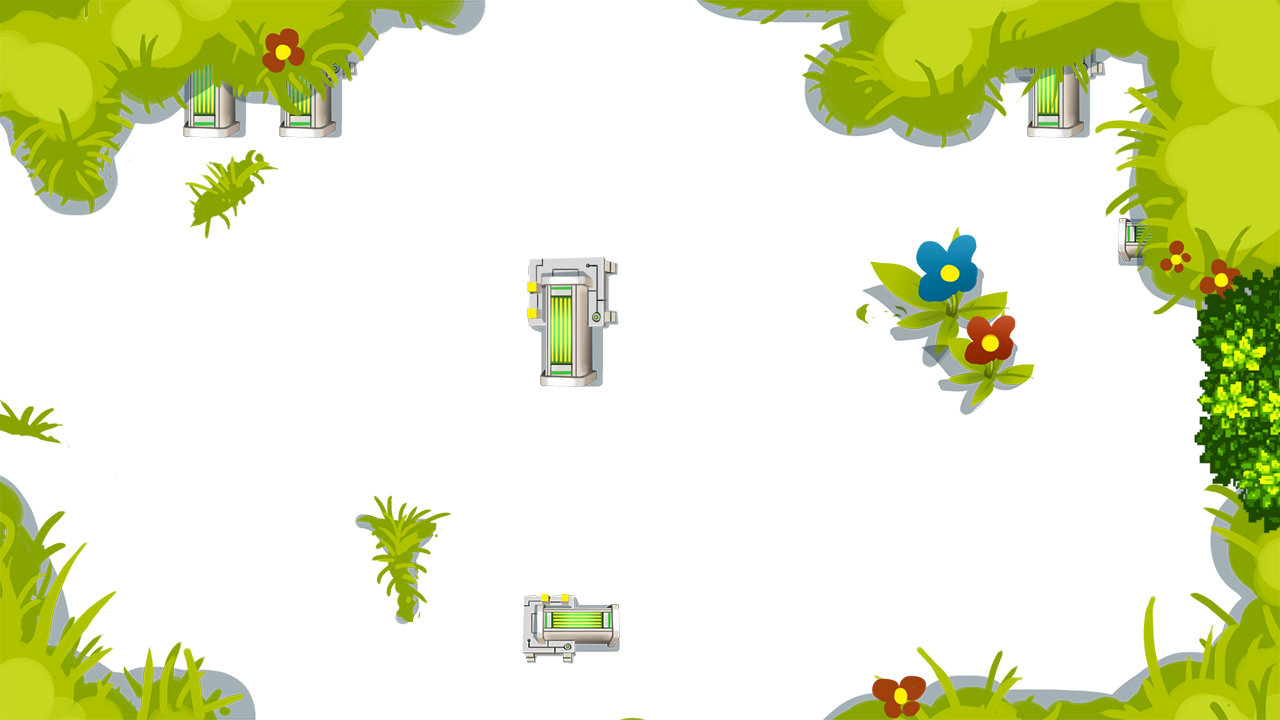
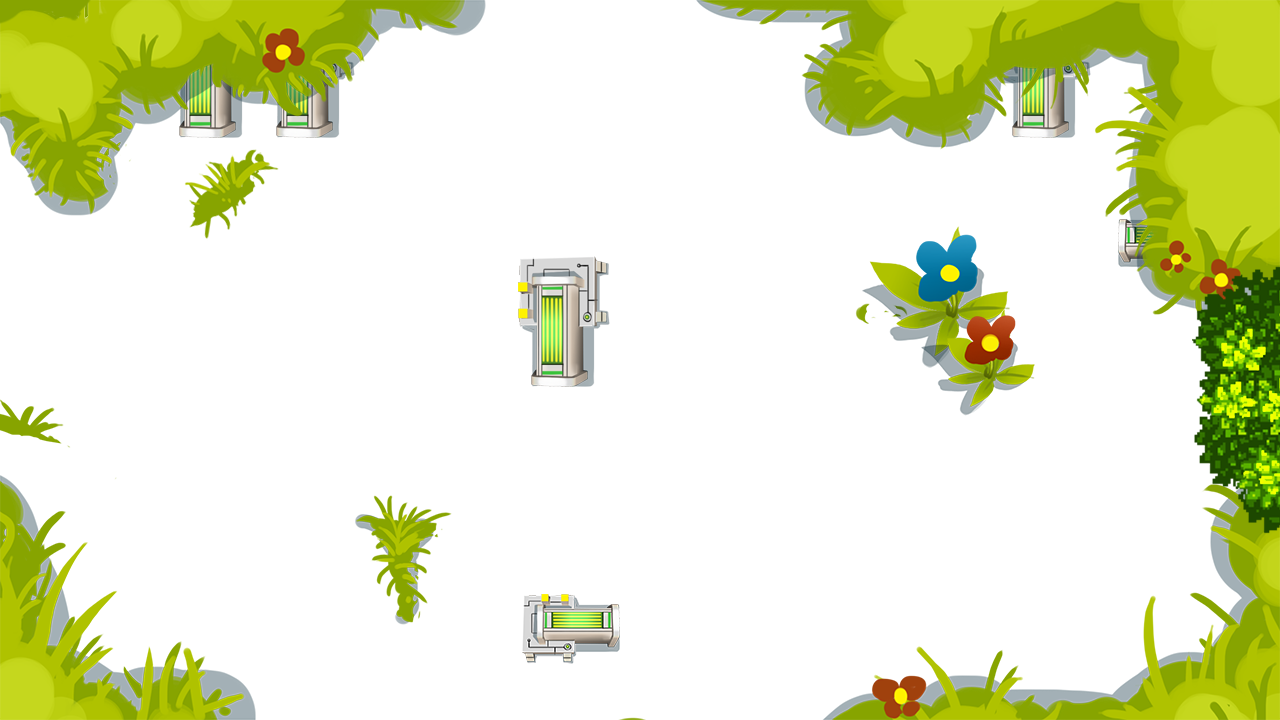
update foregrounds remove waggon offset

diff --git a/js/train.js b/js/train.js
@@ -1,4 +1,3 @@
-var pixelOffsetBetweenTrainSegments = 5;
 var Train = function () {
 
 };
@@ -55,7 +54,7 @@ Train.prototype = {
     move: function () {
         if (!this.arrived) {
             this.incStep(0);
-            this.moveAllSprites(this.pathStepIndex(), this.step, pixelOffsetBetweenTrainSegments);
+            this.moveAllSprites(this.pathStepIndex(), this.step, 0);
             if (this.step == 1) {
                 this.finish();
             }
